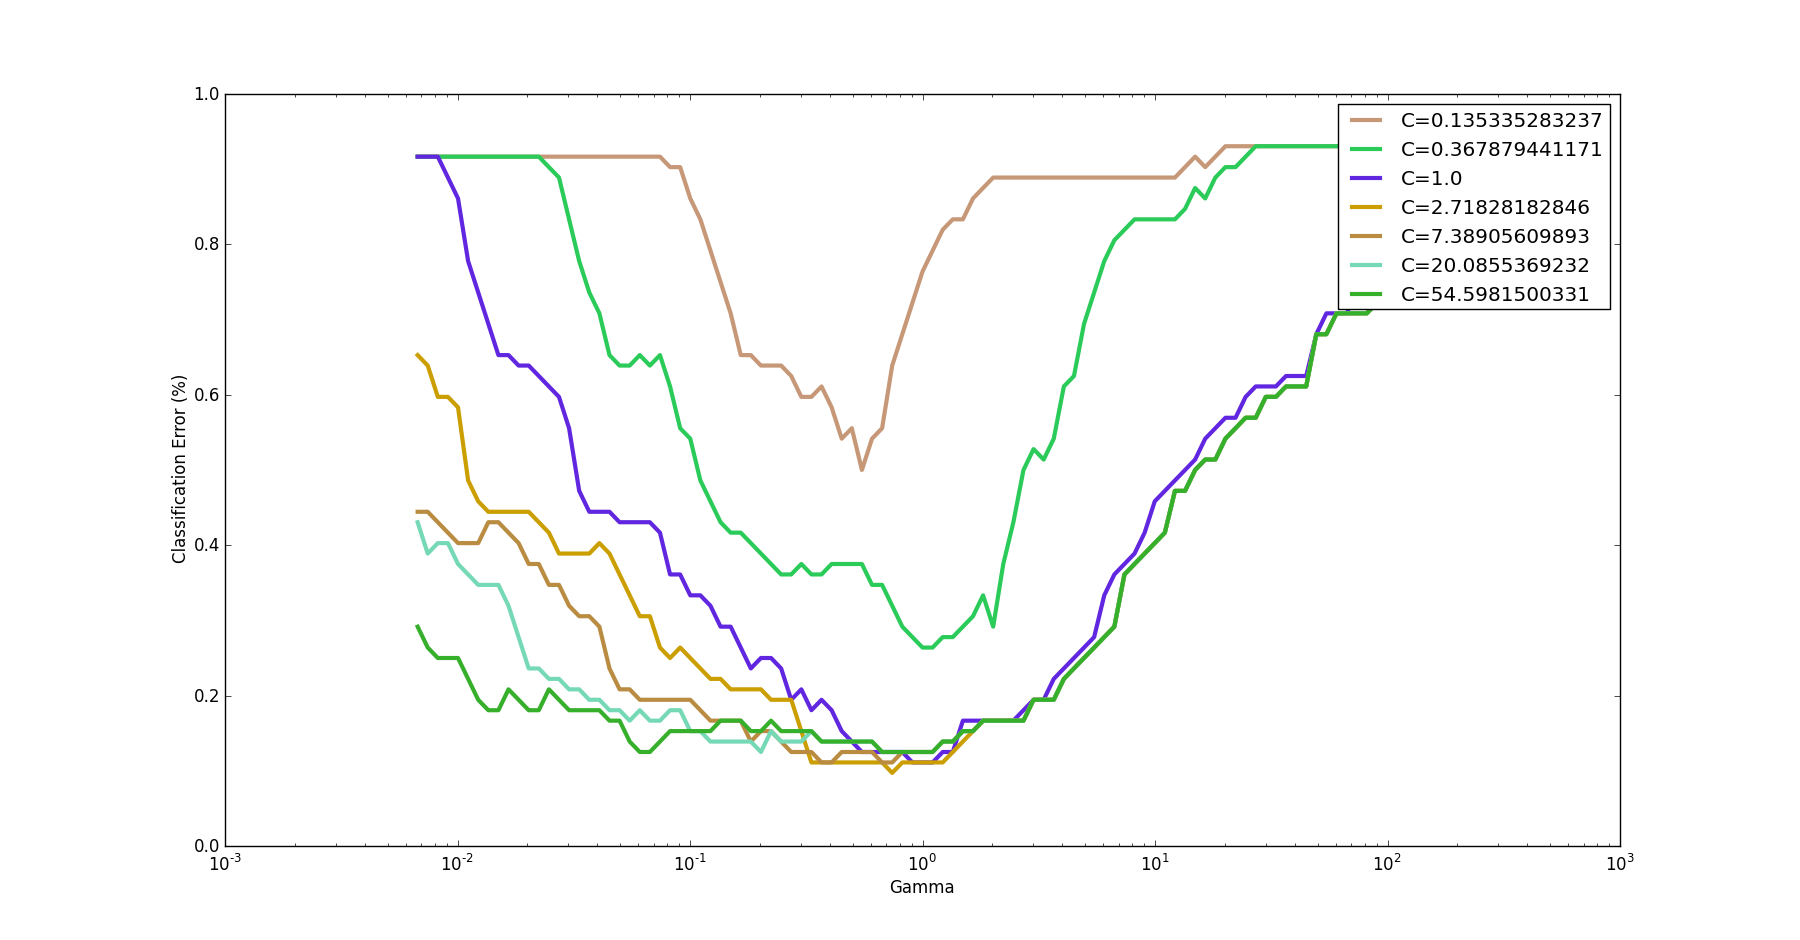
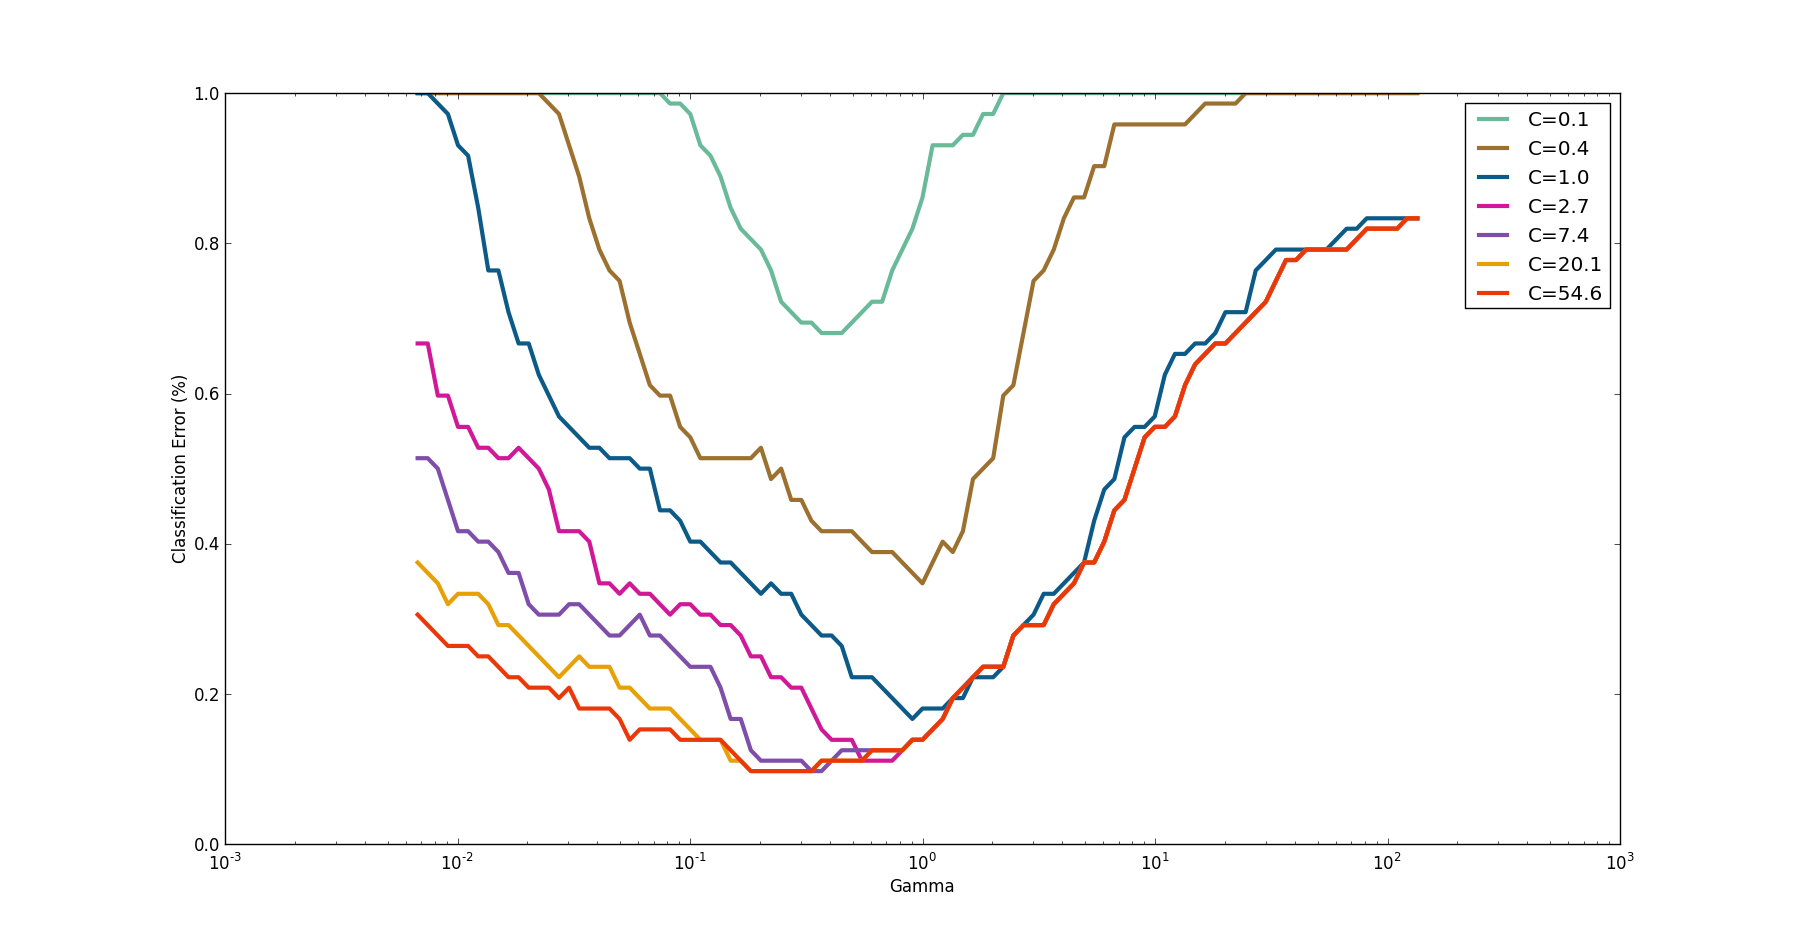
Changed C value display

diff --git a/svm_rbf.py b/svm_rbf.py
@@ -58,7 +58,7 @@ for j in range(len(C_values)):
     error_train_values[i] = float(len(find(predictions_train != classes_train)))/float(len(classes_train))
     error_test_values[i]  = float(len(find(predictions_test != classes_test)))/float(len(classes_test))
 
-  semilogx (gamma_values, error_test_values, color=rgb2hex((rand(), rand(), rand())), label="C={0}".format(C), linewidth=3.0)
+  semilogx (gamma_values, error_test_values, color=rgb2hex((rand(), rand(), rand())), label="C={0:.1f}".format(C), linewidth=3.0)
 legend ()
 ylabel ("Classification Error (%)")
 xlabel ("Gamma")
